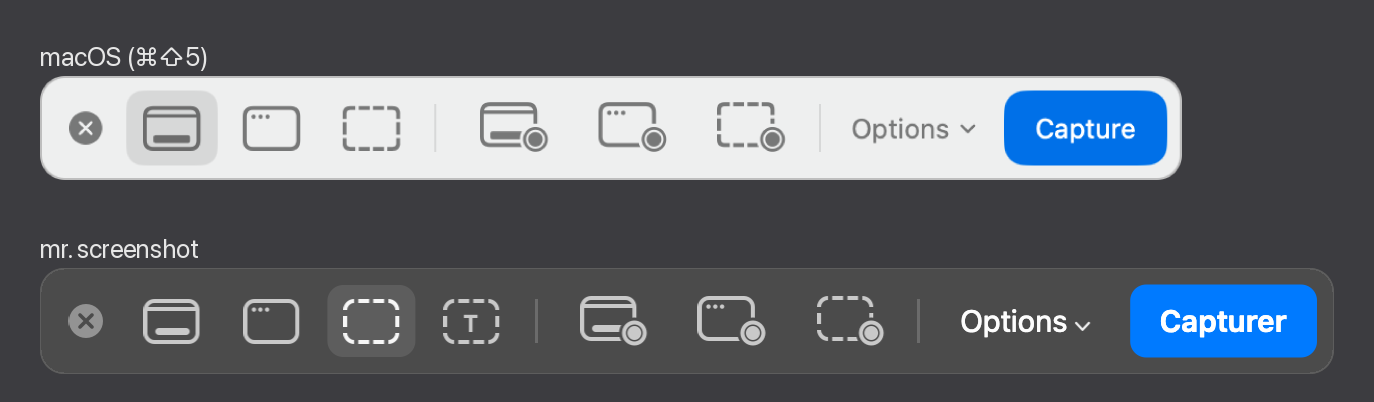
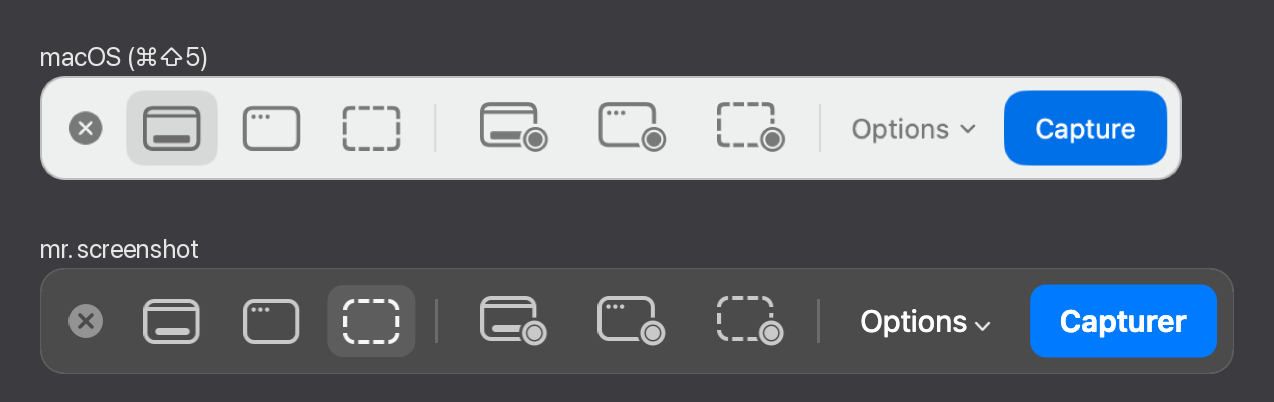
app/screenshot: drop the text mode, keep the screen dimmed, use the system cursors
Six buttons like the system bar. The veil no longer lifts under the mouse;
the hovered screen or window gets a tint and an outline instead. The camera and
selection cursors are the system's own PDFs from HIServices, with their hotspots.

diff --git a/app/screenshot/Sources/Screenshot/Overlay.swift b/app/screenshot/Sources/Screenshot/Overlay.swift
@@ -84,7 +84,7 @@ private final class OverlayView: NSView {
         case .screen: session.commit(screen: screen)
         case .window:
             if let w = session.windows.first(where: { $0.frame.contains(p) }) { session.commit(window: w) }
-        case .area, .text:
+        case .area:
             if let r = session.selection {
                 if let i = (0..<8).first(where: { handlePoint(r, $0).distance(to: p) < 8 }) { drag = .resize(i); return }
                 if r.contains(p) { drag = .move(CGPoint(x: p.x - r.minX, y: p.y - r.minY)); return }
@@ -121,10 +121,10 @@ private final class OverlayView: NSView {
     private func cursor(at p: CGPoint) -> NSCursor {
         guard session.state.needsSelection else { return .camera }
         if let r = session.selection {
-            if (0..<8).contains(where: { handlePoint(r, $0).distance(to: p) < 8 }) { return .crosshair }
+            if (0..<8).contains(where: { handlePoint(r, $0).distance(to: p) < 8 }) { return .selection }
             if r.contains(p) { return .openHand }
         }
-        return .crosshair
+        return .selection
     }
 
     // MARK: Keyboard
@@ -150,22 +150,17 @@ private final class OverlayView: NSView {
 
     override func draw(_ dirtyRect: NSRect) {
         image.draw(in: bounds)
-        // The whole screen goes a little dark while the bar is up, so it reads as "capturing";
-        // the part that will end up in the picture stays at full brightness.
-        let dim = NSColor(white: 0, alpha: session.state.needsSelection ? 0.35 : 0.25)
+        // The whole screen stays a little dark while the bar is up, whatever the mouse does, so
+        // it reads as "capturing". What the click would take gets a lighter tint and an outline;
+        // only the area selection shows through at full brightness.
+        NSColor(white: 0, alpha: 0.3).setFill()
+        bounds.fill()
         switch session.state.target {
         case .screen:
-            if session.hoverScreen != screen { dim.setFill(); bounds.fill() }
-            else { outline(bounds.insetBy(dx: 2, dy: 2), label: "\(pixels(bounds))") }
+            if session.hoverScreen == screen { highlight(bounds.insetBy(dx: 2, dy: 2), label: pixels(bounds)) }
         case .window:
-            dim.setFill(); bounds.fill()
-            if let w = session.hoverWindow {
-                let r = local(w.frame)
-                image.draw(in: r, from: r, operation: .copy, fraction: 1)
-                outline(r, label: "\(w.app)  \(pixels(r))")
-            }
-        case .area, .text:
-            dim.setFill(); bounds.fill()
+            if let w = session.hoverWindow { highlight(local(w.frame), label: "\(w.app)  \(pixels(w.frame))") }
+        case .area:
             guard let sel = session.selection, screen.frame.contains(sel) else { return }
             let r = local(sel)
             image.draw(in: r, from: r, operation: .copy, fraction: 1)
@@ -181,6 +176,12 @@ private final class OverlayView: NSView {
     private func pixels(_ r: CGRect) -> String {
         let s = screen.backingScaleFactor
         return "\(Int(r.width * s)) × \(Int(r.height * s))"
+    }
+
+    private func highlight(_ r: CGRect, label: String) {
+        NSColor(white: 1, alpha: 0.12).setFill()
+        r.fill()
+        outline(r, label: label)
     }
 
     private func outline(_ r: CGRect, label: String) {
@@ -206,26 +207,24 @@ extension CGPoint {
 }
 
 extension NSCursor {
-    /// The camera the system shows for screen and window picks: a white symbol with a dark rim.
-    static let camera: NSCursor = {
-        let size = CGSize(width: 30, height: 30)
-        let img = NSImage(size: size, flipped: false) { _ in
-            let sym = NSImage(systemSymbolName: "camera.fill", accessibilityDescription: nil)!
-                .withSymbolConfiguration(.init(pointSize: 22, weight: .medium))!
-            let white = NSImage(size: sym.size, flipped: false) { _ in
-                sym.draw(in: CGRect(origin: .zero, size: sym.size))
-                NSColor.white.set()
-                CGRect(origin: .zero, size: sym.size).fill(using: .sourceAtop)
-                return true
-            }
+    /// The system's own screenshot cursors, straight from HIServices: the camera for screen and
+    /// window picks, the ringed cross for the area. Their plists give the hotspots and a soft
+    /// shadow, applied here since the PDFs carry none.
+    static let camera = system("screenshotwindow", hotSpot: CGPoint(x: 14, y: 11)) ?? .arrow
+    static let selection = system("screenshotselection", hotSpot: CGPoint(x: 15, y: 15)) ?? .crosshair
+
+    private static func system(_ name: String, hotSpot: CGPoint) -> NSCursor? {
+        let base = "/System/Library/Frameworks/ApplicationServices.framework/Versions/A/Frameworks/HIServices.framework/Versions/A/Resources/cursors/"
+        guard let pdf = NSImage(contentsOfFile: base + name + "/cursor.pdf") else { return nil }
+        let img = NSImage(size: pdf.size, flipped: false) { r in
             let shadow = NSShadow()
-            shadow.shadowColor = NSColor.black.withAlphaComponent(0.9)
-            shadow.shadowBlurRadius = 2.5
+            shadow.shadowColor = NSColor.black.withAlphaComponent(0.45)
+            shadow.shadowOffset = CGSize(width: 0, height: -1)
+            shadow.shadowBlurRadius = 2
             shadow.set()
-            white.draw(in: CGRect(x: (size.width - sym.size.width) / 2, y: (size.height - sym.size.height) / 2,
-                                  width: sym.size.width, height: sym.size.height))
+            pdf.draw(in: r)
             return true
         }
-        return NSCursor(image: img, hotSpot: CGPoint(x: 15, y: 15))
-    }()
+        return NSCursor(image: img, hotSpot: hotSpot)
+    }
 }

diff --git a/app/screenshot/Sources/Screenshot/Thumbnail.swift b/app/screenshot/Sources/Screenshot/Thumbnail.swift
@@ -7,7 +7,6 @@ final class Thumbnail: NSPanel {
     enum Content {
         case image(CGImage, URL, CGRect)
         case movie(CGImage?, URL)
-        case text(String)
     }
 
     private static var current: Thumbnail?
@@ -47,10 +46,6 @@ final class Thumbnail: NSPanel {
             view.addSubview(iv)
         case .movie(nil, _):
             view.addSubview(label("Enregistrement", in: view.bounds))
-        case .text(let text):
-            let t = label(text.isEmpty ? "Aucun texte reconnu" : text, in: view.bounds.insetBy(dx: 10, dy: 10))
-            t.font = .systemFont(ofSize: 11)
-            view.addSubview(t)
         }
         if case .image = content {
             for (symbol, action, tip) in [("pin", #selector(pin), "Épingler"), ("trash", #selector(trash), "Supprimer")] {
@@ -94,15 +89,14 @@ final class Thumbnail: NSPanel {
         if Thumbnail.current === self { Thumbnail.current = nil }
     }
 
-    var url: URL? {
+    var url: URL {
         switch content {
         case .image(_, let u, _), .movie(_, let u): return u
-        case .text: return nil
         }
     }
 
     func open() {
-        if let url { NSWorkspace.shared.open(url) }
+        NSWorkspace.shared.open(url)
         dismiss()
     }
 
@@ -112,7 +106,7 @@ final class Thumbnail: NSPanel {
     }
 
     @objc private func trash() {
-        if let url { try? FileManager.default.trashItem(at: url, resultingItemURL: nil) }
+        try? FileManager.default.trashItem(at: url, resultingItemURL: nil)
         dismiss()
     }
 
@@ -137,9 +131,9 @@ final class Thumbnail: NSPanel {
         override func mouseDown(with event: NSEvent) { down = event.locationInWindow }
         override func mouseUp(with event: NSEvent) { if down != nil { card.open() }; down = nil }
         override func mouseDragged(with event: NSEvent) {
-            guard let start = down, start.distance(to: event.locationInWindow) > 6, let url = card.url else { return }
+            guard let start = down, start.distance(to: event.locationInWindow) > 6 else { return }
             down = nil
-            let item = NSDraggingItem(pasteboardWriter: url as NSURL)
+            let item = NSDraggingItem(pasteboardWriter: card.url as NSURL)
             item.setDraggingFrame(bounds, contents: card.contentView?.subviews.compactMap { $0 as? NSImageView }.first?.image)
             beginDraggingSession(with: [item], event: event, source: self)
         }

diff --git a/app/screenshot/Sources/Screenshot/Session.swift b/app/screenshot/Sources/Screenshot/Session.swift
@@ -10,7 +10,7 @@ final class Session {
     static let shared = Session()
 
     var state = Settings.bar
-    /// AppKit global points; only for area and text.
+    /// AppKit global points; only for area.
     var selection: CGRect? = Settings.lastRect
     var hoverWindow: WindowInfo?
     var hoverScreen: NSScreen?
@@ -149,18 +149,12 @@ final class Session {
                     let image = try await Capture.window(w, shadow: shadow)
                     let url = try Output.save(image, scale: NSScreen.containing(w.frame).backingScaleFactor, app: w.app)
                     Thumbnail.show(.image(image, url, w.frame))
-                case .area, .text:
+                case .area:
                     let r = selection!.integral
                     let s = NSScreen.containing(r)
                     let image = live ? try await Capture.area(r, on: s)
                         : frozen[s.displayID]!.cropping(to: pixelCrop(r, in: s.frame, scale: s.backingScaleFactor))!
-                    if state.target == .area {
-                        Thumbnail.show(.image(image, try Output.save(image, scale: s.backingScaleFactor), r))
-                    } else {
-                        let text = try await OCR.text(in: image)
-                        Output.copy(text: text)
-                        Thumbnail.show(.text(text))
-                    }
+                    Thumbnail.show(.image(image, try Output.save(image, scale: s.backingScaleFactor), r))
                 }
             } catch {
                 NSLog("screenshot: \(error.localizedDescription)")
@@ -183,7 +177,7 @@ final class Session {
                     guard let w = window, let sc = try await Capture.content().windows.first(where: { $0.windowID == w.id }) else { return }
                     let filter = SCContentFilter(desktopIndependentWindow: sc)
                     try await recorder.start(filter: filter, size: filter.contentRect.size, scale: CGFloat(filter.pointPixelScale))
-                case .area, .text:
+                case .area:
                     let r = rect!.integral
                     let s = NSScreen.containing(r)
                     let (_, filter) = try await Capture.displayFilter(s)

diff --git a/app/screenshot/Sources/Screenshot/Bar.swift b/app/screenshot/Sources/Screenshot/Bar.swift
@@ -213,7 +213,7 @@ final class ModeButton: NSButton {
 /// 4.5 pt corners; a menu-bar line and a dock for the display, three dots for the window,
 /// dashes for the area; the recordings add a ring badge that punches through the corner.
 enum Glyph {
-    static let tip: [Target: String] = [.screen: "Écran entier", .window: "Fenêtre", .area: "Zone", .text: "Texte"]
+    static let tip: [Target: String] = [.screen: "Écran entier", .window: "Fenêtre", .area: "Zone"]
 
     static func image(for s: BarState) -> NSImage {
         let recording = s.kind == .video
@@ -227,7 +227,7 @@ enum Glyph {
             switch s.target {
             case .screen, .window:
                 stroke.appendRoundedRect(r, xRadius: radius, yRadius: radius)
-            case .area, .text:
+            case .area:
                 // Solid corners, two dashes on the long edges, one on the short ones.
                 dashedRoundedRect(r, radius: radius, into: stroke)
             }
@@ -241,9 +241,6 @@ enum Glyph {
                 NSBezierPath(roundedRect: CGRect(x: 6, y: 14.5, width: 17.5, height: 3.5), xRadius: 1.75, yRadius: 1.75).fill()
             case .window:
                 for i in 0..<3 { NSBezierPath(ovalIn: CGRect(x: 4.2 + CGFloat(i) * 3.4, y: 4.2, width: 2.2, height: 2.2)).fill() }
-            case .text:
-                ("T" as NSString).draw(at: CGPoint(x: 10, y: 4.5), withAttributes: [
-                    .font: NSFont.systemFont(ofSize: 12, weight: .bold), .foregroundColor: NSColor.black])
             case .area: break
             }
             if recording {

diff --git a/app/screenshot/Sources/check/main.swift b/app/screenshot/Sources/check/main.swift
@@ -30,15 +30,13 @@ expect(resized(r, handle: 0, to: CGPoint(x: 50, y: 50)) == CGRect(x: 30, y: 30, 
 expect(resized(r, handle: 3, to: CGPoint(x: 70, y: 0)) == CGRect(x: 10, y: 10, width: 60, height: 20),
        "an edge handle ignores the other axis")
 
-var bar = BarState(target: .text, kind: .photo)
+var bar = BarState(target: .area, kind: .photo)
 bar.step(1); expect(bar == BarState(target: .screen, kind: .video), "⌘→ goes from the last still to the first recording")
-bar.step(-1); expect(bar == BarState(target: .text, kind: .photo), "⌘← comes back")
+bar.step(-1); expect(bar == BarState(target: .area, kind: .photo), "⌘← comes back")
 bar = BarState(target: .area, kind: .video)
 bar.step(1); expect(bar == BarState(target: .screen, kind: .photo), "⌘→ wraps around")
-bar.toggleKind(); expect(bar.kind == .video && bar.target == .screen, "⌘⇧5 keeps the target when it exists in video")
-bar = BarState(target: .text, kind: .photo)
-bar.toggleKind(); expect(bar.kind == .video && bar.target == .area, "video drops text and falls back to area")
-expect(BarState.all.count == 7, "seven buttons")
+bar.toggleKind(); expect(bar.kind == .video && bar.target == .screen, "⌘⇧5 keeps the target")
+expect(BarState.all.count == 6, "six buttons, like the system")
 
 let name = fileName(kind: "Screenshot", app: "Safari/Beta", ext: "png", at: Date(timeIntervalSince1970: 0))
 expect(name.hasPrefix("Screenshot Safari-Beta 1970-01-01 at ") && name.hasSuffix(".png"), "file name: \(name)")

diff --git a/app/screenshot/Sources/ScreenshotCore/Bar.swift b/app/screenshot/Sources/ScreenshotCore/Bar.swift
@@ -1,15 +1,15 @@
 import Foundation
 
 public enum Target: String, CaseIterable, Codable {
-    case screen, window, area, text
+    case screen, window, area
 }
 
 public enum Kind: String, Codable {
     case photo, video
 }
 
-/// What the bar offers and how ⌘← ⌘→ and ⌘⇧5 move through it. Seven buttons, like the
-/// system's six: four stills, then three recordings.
+/// What the bar offers and how ⌘← ⌘→ and ⌘⇧5 move through it. The system's six buttons:
+/// three stills, then three recordings.
 public struct BarState: Equatable {
     public var target: Target
     public var kind: Kind
@@ -19,10 +19,7 @@ public struct BarState: Equatable {
         self.kind = kind
     }
 
-    /// Text recognition has no meaning for a movie.
-    public static func targets(for kind: Kind) -> [Target] {
-        kind == .video ? [.screen, .window, .area] : Target.allCases
-    }
+    public static func targets(for kind: Kind) -> [Target] { Target.allCases }
 
     /// Every button, left to right.
     public static let all: [BarState] =
@@ -36,9 +33,8 @@ public struct BarState: Equatable {
 
     public mutating func toggleKind() {
         kind = kind == .photo ? .video : .photo
-        if !Self.targets(for: kind).contains(target) { target = .area }
     }
 
     /// Whether this target needs a rectangle before it can commit.
-    public var needsSelection: Bool { target == .area || target == .text }
+    public var needsSelection: Bool { target == .area }
 }

diff --git a/app/screenshot/Sources/Screenshot/Output.swift b/app/screenshot/Sources/Screenshot/Output.swift
@@ -35,11 +35,6 @@ enum Output {
         NSPasteboard.general.writeObjects([item])
     }
 
-    static func copy(text: String) {
-        NSPasteboard.general.clearContents()
-        NSPasteboard.general.setString(text, forType: .string)
-    }
-
     /// A copy under Application Support, the newest 20 only: the menu bar's "Récentes".
     static func remember(_ url: URL) {
         let fm = FileManager.default
